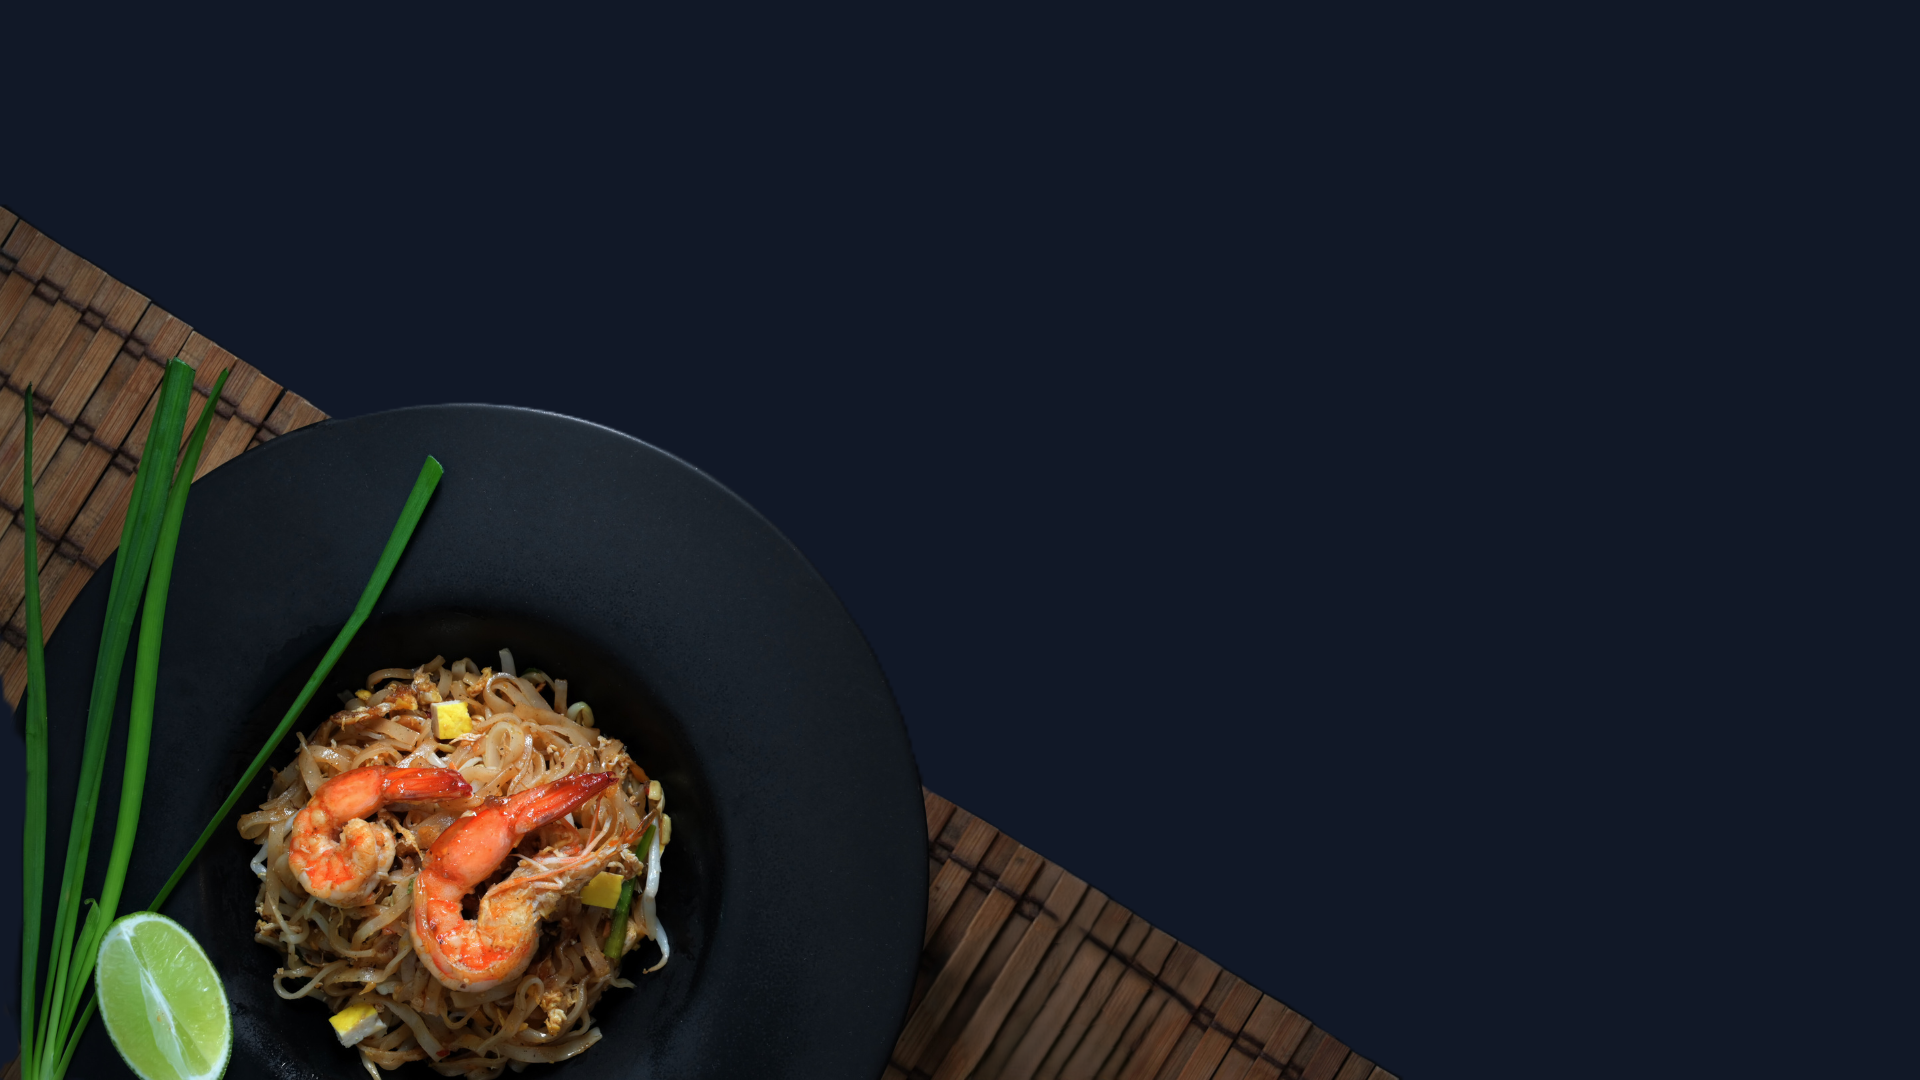
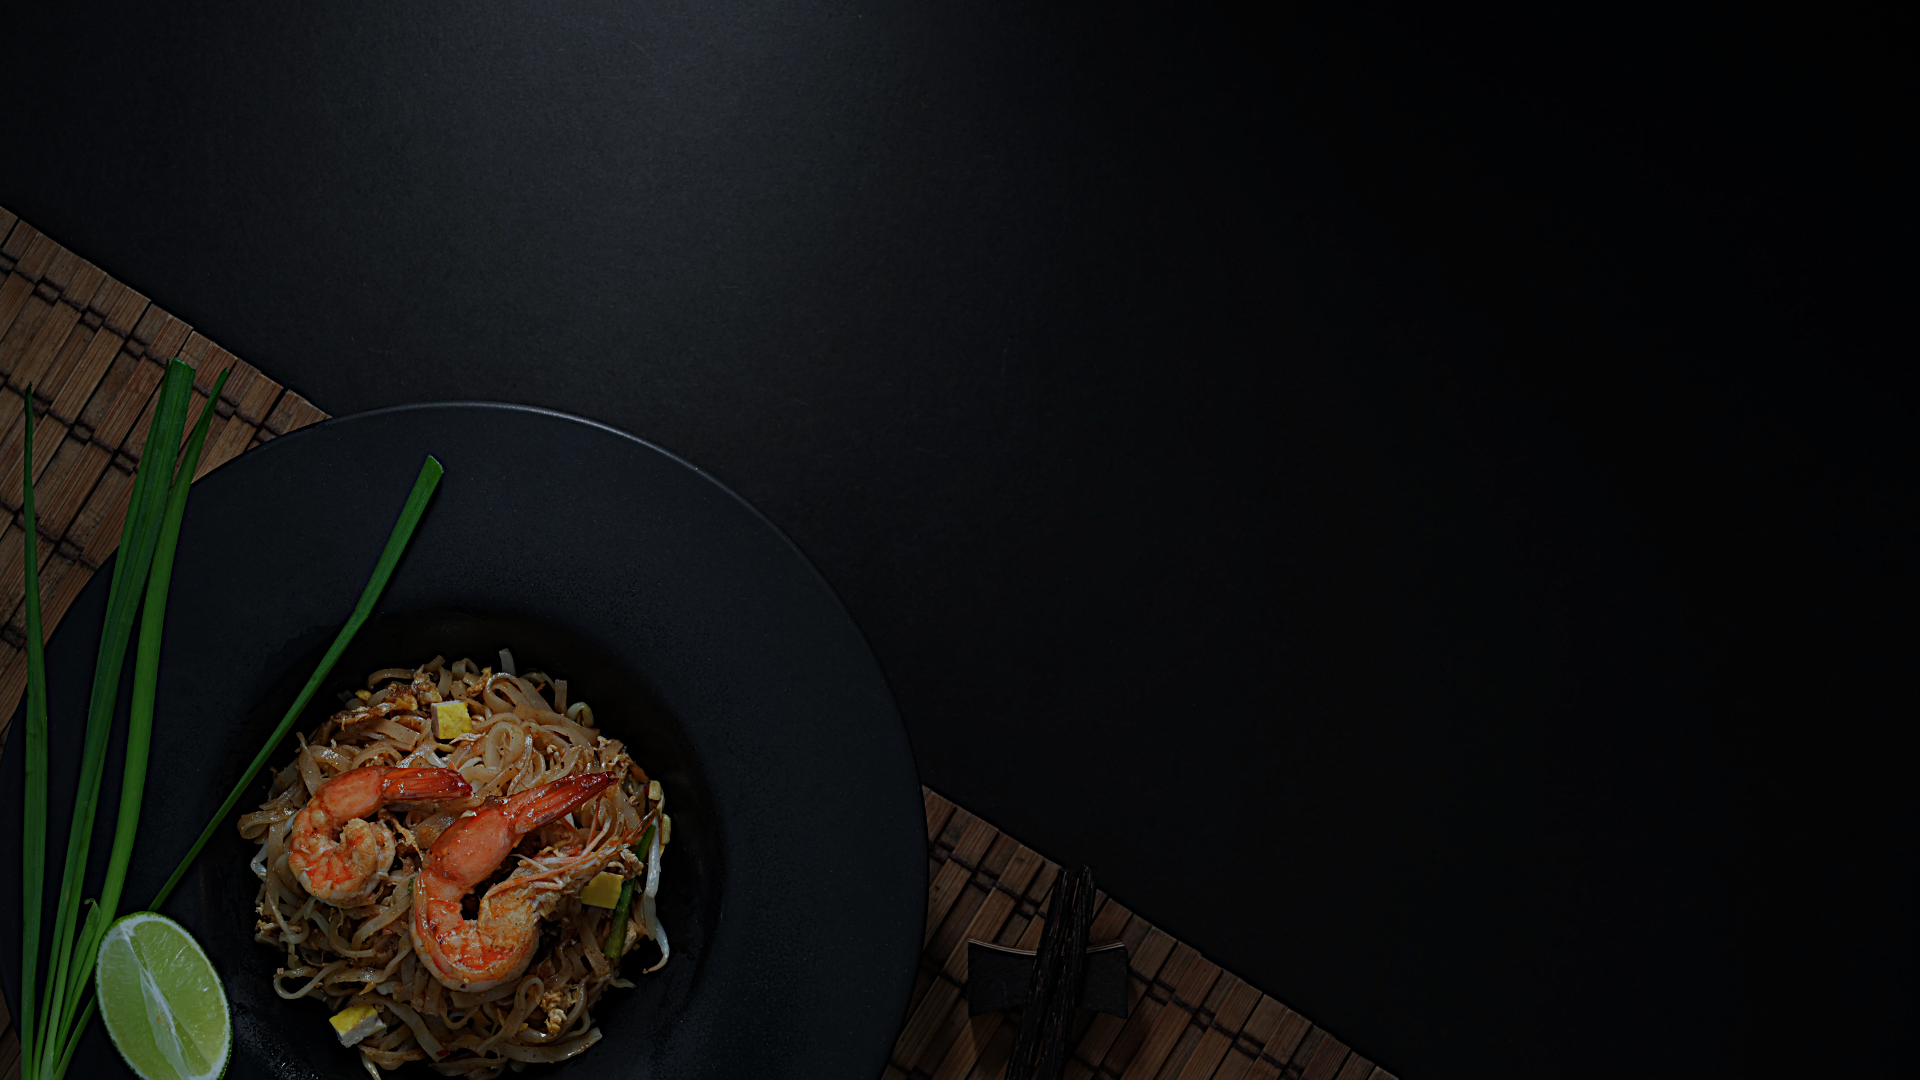
Recommendation cards & bg-changed

diff --git a/src/app/recommended_recipes/page.tsx b/src/app/recommended_recipes/page.tsx
@@ -1,0 +1,108 @@
+import React from "react";
+
+const sampleRecipes = [
+  {
+    name: "Spaghetti with Spicy Mixed Seafood",
+    rating: 4.9,
+    imageUrl: "https://img.sndimg.com/food/image/upload/v1/img/feed/56/pzhS4q7QKSMqZASDBtNB_IMG_20180506_232451.jpg",
+    description: "A delicious mix of seafood and pasta.",
+    calories: 320,
+    time: 30,
+  },
+  {
+    name: "Grilled Chicken Salad",
+    rating: 4.5,
+    imageUrl: "https://img.sndimg.com/food/image/upload/w_555,h_416,c_fit,fl_progressive,q_95/v1/img/recipes/58/picY2Aqui.jpg",
+    description: "A light, healthy chicken salad.",
+    calories: 250,
+    time: 15,
+  },
+  {
+    name: "Beef Steak with Vegetables",
+    rating: 4.8,
+    imageUrl: "https://img.sndimg.com/food/image/upload/w_555,h_416,c_fit,fl_progressive,q_95/v1/img/recipes/38/AFPDDHATWzQ0b1CDpDAT_255%20berry%20blue%20frzn%20dess.jpg",
+    description: "Juicy beef steak served with veggies.",
+    calories: 450,
+    time: 40,
+  },
+  // Add more recipes as needed
+];
+
+interface Recipe {
+  name: string;
+  rating: number;
+  imageUrl: string;
+  description: string;
+  calories: number;
+  time: number;
+}
+
+const RecipeCard: React.FC<{ recipe: Recipe }> = ({ recipe }) => {
+  return (
+    <div className="relative w-full max-w-sm mx-auto shadow-lg rounded-lg overflow-hidden">
+      <div className="relative h-64">
+        {/* Recipe Image as Background */}
+        <img
+          src={recipe.imageUrl}
+          alt={recipe.name}
+          className="w-full h-full object-cover"
+        />
+        {/* Rating Badge */}
+        <div className="absolute top-2 left-2 bg-yellow-400 text-white px-2 py-1 rounded-full text-xs font-bold">
+          ★ {recipe.rating}
+        </div>
+        {/* Gradient Overlay and Recipe Name */}
+        <div className="absolute inset-0 z-0">
+          <div className="absolute bottom-0 left-0 right-0 h-20 bg-gradient-to-t from-black to-transparent"></div>
+        </div>
+        <div className="absolute bottom-0 left-0 text-white p-3 text-lg font-semibold">
+          {recipe.name}
+        </div>
+      </div>
+      {/* Recipe Description, Calories and Time */}
+      <div className="p-4 bg-white">
+        <p className="text-gray-700 text-sm mb-2">{recipe.description}</p>
+        <div className="flex justify-between text-sm font-semibold text-gray-800">
+          <span>Calories: {recipe.calories}</span>
+          <span>Time: {recipe.time} mins</span>
+        </div>
+      </div>
+    </div>
+  );
+};
+
+const RecipeList: React.FC<{ recipes: Recipe[] | undefined }> = ({ recipes }) => {
+  return (
+    <div className="container mx-auto px-4 py-8">
+      {/* Cards in 2 Rows with 3 Cards Each */}
+      <div className="grid grid-cols-1 sm:grid-cols-2 lg:grid-cols-3 gap-6">
+        {/* Ensure recipes is defined before using slice */}
+        {recipes && recipes.length > 0 ? (
+          recipes.slice(0, 6).map((recipe, index) => (
+            <RecipeCard key={index} recipe={recipe} />
+          ))
+        ) : (
+          <p>No recipes available</p>
+        )}
+      </div>
+      {/* Arrow Button to Explore More */}
+      <div className="text-center mt-6">
+        <button className="bg-black text-white px-6 py-2 rounded-md">
+          Explore More
+        </button>
+      </div>
+    </div>
+  );
+};
+
+// Define a functional component to render the RecipeList
+const RecommendedRecipesPage: React.FC = () => {
+  return (
+    <div>
+      <h1 className="text-center text-3xl font-bold mb-8">Recommended Recipes</h1>
+      <RecipeList recipes={sampleRecipes} />
+    </div>
+  );
+};
+
+export default RecommendedRecipesPage;

diff --git a/src/components/RecommendationsForm.tsx b/src/components/RecommendationsForm.tsx
@@ -2,6 +2,7 @@
 
 import React, { useState, useEffect } from "react";
 import Select from 'react-select';
+import Link from "next/link";
 
 interface FormData {
   categories: string[];
@@ -310,12 +311,14 @@ const RecipeRecommendationForm: React.FC = () => {
         </div>
 
         <div className="flex justify-center">
-          <button
-            type="submit"
-            className="w-80 py-2 text-white bg-indigo-600 rounded-lg focus:outline-none focus:ring-2 focus:ring-offset-2 focus:ring-indigo-500 hover:bg-indigo-500 mx-auto"
-          >
-            Get Recommendations
-          </button>
+          <Link href={'/recommended_recipes'}>
+            <button
+              type="submit"
+              className="w-80 py-2 text-white bg-indigo-600 rounded-lg focus:outline-none focus:ring-2 focus:ring-offset-2 focus:ring-indigo-500 hover:bg-indigo-500 mx-auto"
+            >
+              Get Recommendations
+            </button>
+          </Link>
         </div>
       </form>
     </div>

diff --git a/src/components/HeroSection.tsx b/src/components/HeroSection.tsx
@@ -15,8 +15,8 @@ function HeroSection() {
             }}
         >
             <div className="absolute inset-0 z-0">
-                <div className="absolute top-0 left-0 right-0 h-4 bg-gradient-to-b from-black to-transparent"></div>
-                <div className="absolute bottom-0 left-0 right-0 h-6 bg-gradient-to-t from-black to-transparent"></div>
+                <div className="absolute top-0 left-0 right-0 bg-gradient-to-b from-black to-transparent"></div>
+                <div className="absolute bottom-0 left-0 right-0 h-32 bg-gradient-to-t from-black to-transparent"></div>
             </div>
             {/* <Spotlight
                 className="-top-40 left-0 md:left-60 md:-top-20"

diff --git a/src/components/FeaturedRecipes.tsx b/src/components/FeaturedRecipes.tsx
@@ -44,7 +44,7 @@ function formatDuration(duration: string) {
     }
 
   return (
-    <div className='py-12 bg-gray-900'>
+    <div className='py-12' style={{background:'#0f172a'}}>
         <div>
             <div className="text-center">
                 <h2 className='text-base text-teal-600 font-semibold tracking wide uppercase'>
